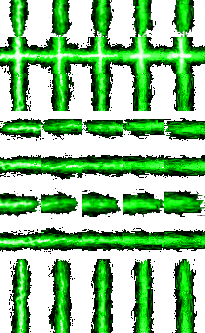
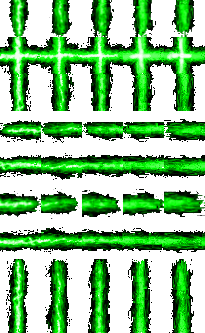
Added flame animation

diff --git a/src/components.js b/src/components.js
@@ -60,58 +60,107 @@ Crafty.c('Bomb', {
   },
 });
 
-Crafty.c('Flame', {
+Crafty.c('Flame, SpriteAnimation', {
   init: function() {
     this.requires('Actor');
-	
-    /*
-  	var that = this;
-  	setTimeout( function() {
-  		that.destroy();
-  	}, 1000);
-*/
   },
 });
 
 Crafty.c('FlameTop', {
   init: function() {
-    this.requires('Actor, spr_flame_top, Flame');
+    this.requires('Actor, spr_flame_top, Flame, SpriteAnimation')
+      .reel('FlameFlicker', 1000, 0, 7, 5);
+
+    this.animate('FlameFlicker', -1);
+
+    var that = this;
+    setTimeout( function() {
+      that.destroy();
+    }, 800);
   },
 });
 
 Crafty.c('FlameCenter', {
   init: function() {
-    this.requires('Actor, spr_flame_center, Flame');
+    this.requires('Actor, spr_flame_center, Flame, SpriteAnimation')
+      .reel('FlameFlicker', 1000, 0, 1, 5);
+
+    this.animate('FlameFlicker', -1);
+
+    var that = this;
+    setTimeout( function() {
+      that.destroy();
+    }, 800);
   },
 });
 
 Crafty.c('FlameBottom', {
   init: function() {
-    this.requires('Actor, spr_flame_bottom, Flame');
+    this.requires('Actor, spr_flame_bottom, Flame, SpriteAnimation')
+      .reel('FlameFlicker', 1000, 0, 0, 5);
+
+    this.animate('FlameFlicker', -1);
+
+    var that = this;
+    setTimeout( function() {
+      that.destroy();
+    }, 800);
   },
 });
 
 Crafty.c('FlameLeft', {
   init: function() {
-    this.requires('Actor, spr_flame_left, Flame');
+    this.requires('Actor, spr_flame_left, Flame, SpriteAnimation')
+      .reel('FlameFlicker', 1000, 0, 3, 5);
+
+    this.animate('FlameFlicker', -1);
+
+    var that = this;
+    setTimeout( function() {
+      that.destroy();
+    }, 800);
   },
 });
 
 Crafty.c('FlameRight', {
   init: function() {
-    this.requires('Actor, spr_flame_right, Flame');
+    this.requires('Actor, spr_flame_right, Flame, SpriteAnimation')
+      .reel('FlameFlicker', 1000, 0, 5, 5);
+
+    this.animate('FlameFlicker', -1);
+
+    var that = this;
+    setTimeout( function() {
+      that.destroy();
+    }, 800);
   },
 });
 
 Crafty.c('FlameVertical', {
   init: function() {
-    this.requires('Actor, spr_flame_vertical, Flame');
+    this.requires('Actor, spr_flame_vertical, Flame, SpriteAnimation')
+      .reel('FlameFlicker', 1000, 0, 8, 5);
+
+    this.animate('FlameFlicker', -1);
+
+    var that = this;
+    setTimeout( function() {
+      that.destroy();
+    }, 800);
   },
 });
 
 Crafty.c('FlameHorizontal', {
   init: function() {
-    this.requires('Actor, spr_flame_horizontal, Flame');
+    this.requires('Actor, spr_flame_horizontal, Flame, SpriteAnimation')
+      .reel('FlameFlicker', 1000, 0, 4, 5);
+
+    this.animate('FlameFlicker', -1);
+
+    var that = this;
+    setTimeout( function() {
+      that.destroy();
+    }, 800);
   },
 });
 
@@ -135,7 +184,7 @@ Crafty.c('Brick', {
     this.requires('Actor, Solid, Collision, spr_brick')
 		.onHit('Actor', function() {
 			console.log('Something hit the brick');
-			//this.destroy();
+			this.destroy();
 		});
   },
 });

diff --git a/src/scenes.js b/src/scenes.js
@@ -209,11 +209,13 @@ Crafty.scene('Game', function() {
 
 
 	
+	/*
 	Crafty.explode( 5, 2, 3 );
 	Crafty.explode( 0, 6, 3 );
 	Crafty.explode( 11, 2, 1 );
 	Crafty.explode( 12, 5, 1 );
 	Crafty.explode( 6, 8, 4 );
+	*/
 	
 
 
@@ -343,14 +345,14 @@ Crafty.scene('Loading', function(){
 		}, 0, 0);
 
 		Crafty.sprite(41, 37, 'assets/flame.png', {
-			spr_flame_bottom:     [2, 0],
-			spr_flame_center:     [2, 1],
-			spr_flame_vertical:   [2, 2],
-			spr_flame_left:       [2, 3],
-			spr_flame_horizontal: [2, 4],
-			spr_flame_right:      [2, 5],
-			spr_flame_top:        [2, 7],
-		});
+			spr_flame_bottom:     [0, 0],
+			spr_flame_center:     [0, 1],
+			spr_flame_vertical:   [0, 8],
+			spr_flame_left:       [0, 3],
+			spr_flame_horizontal: [0, 4],
+			spr_flame_right:      [0, 5],
+			spr_flame_top:        [0, 7],
+		}, 0, 0);
 
 		Crafty.sprite(40, 36, 'assets/stone.png', {
 			spr_stone:  [0, 0],
